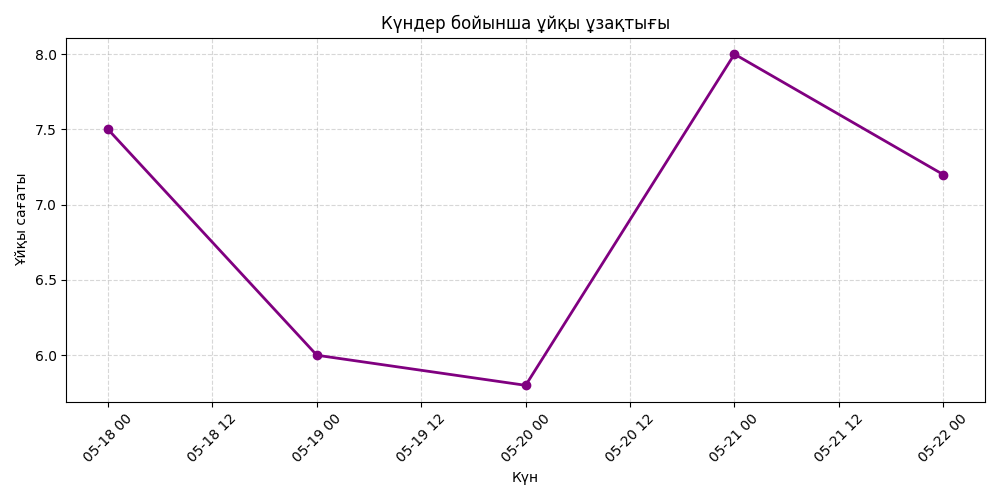
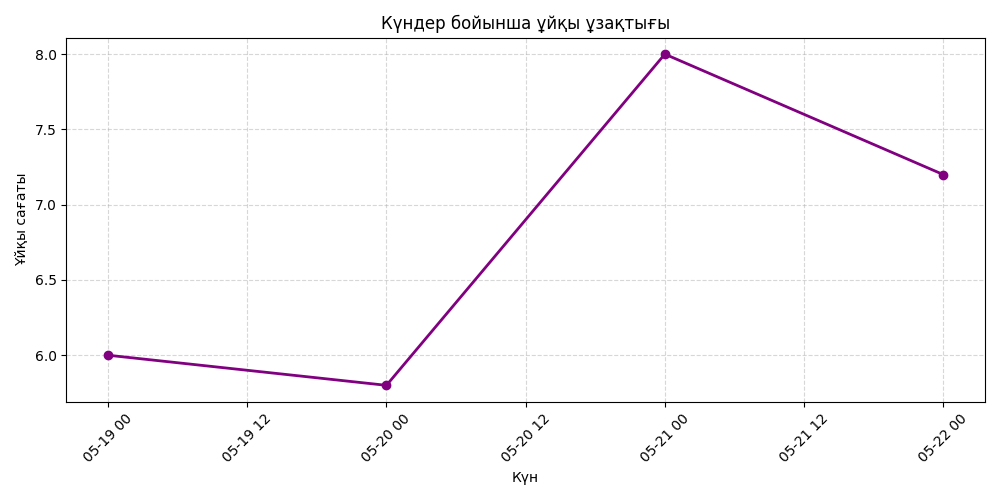
FinalExam

diff --git a/SleepGenerator.py b/SleepGenerator.py
@@ -1,6 +1,6 @@
 import json
 
-class SleepExporter:
+class SleepGenerator:
     def __init__(self, tracker):
         self.tracker = tracker
 
